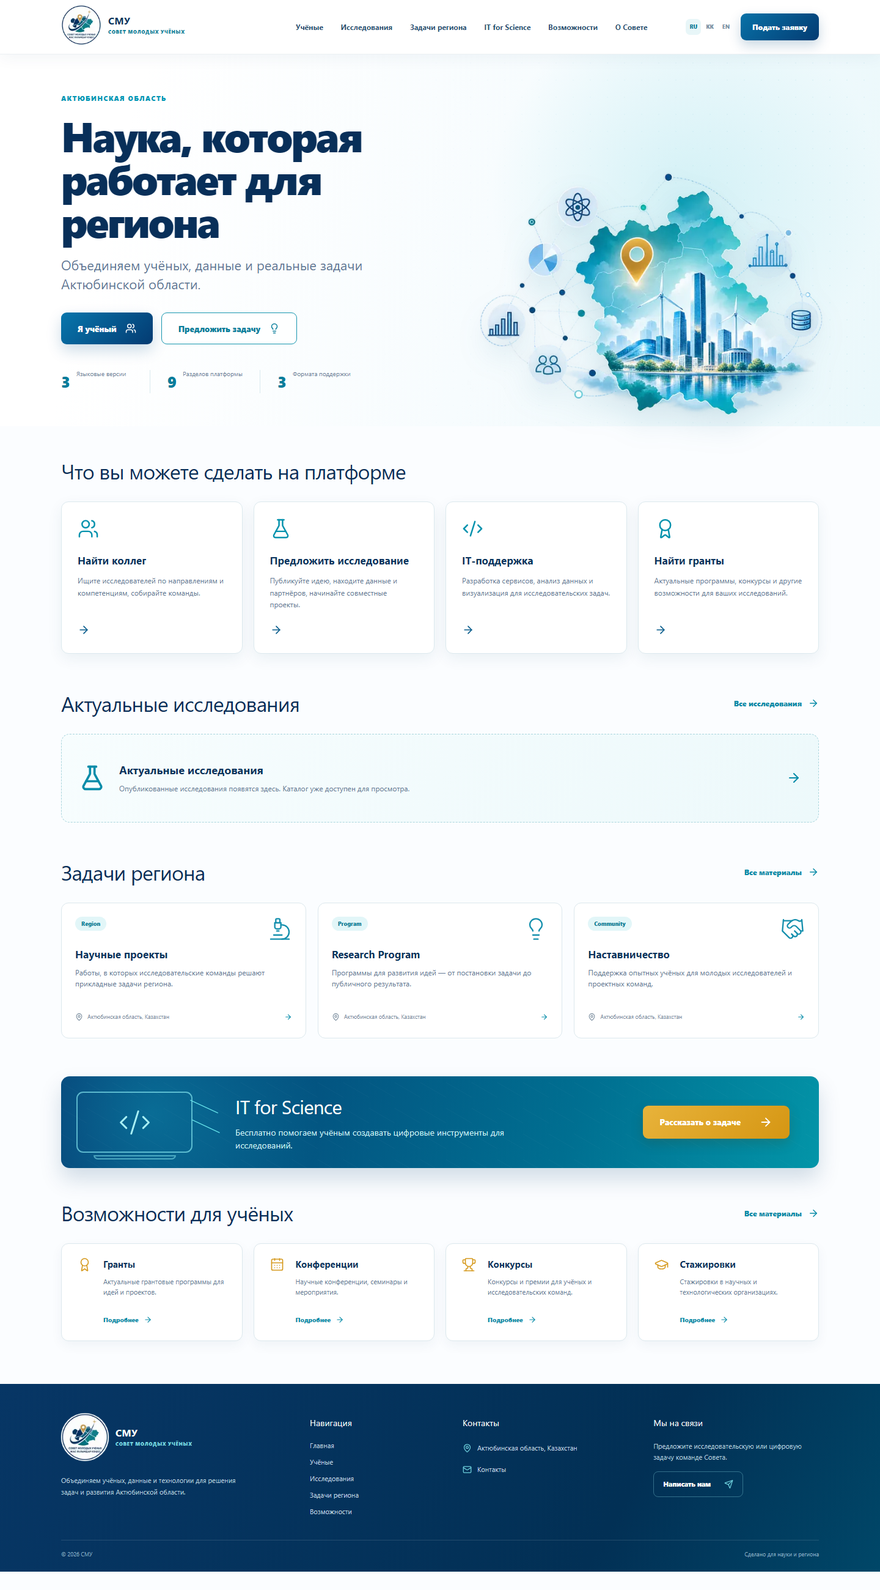
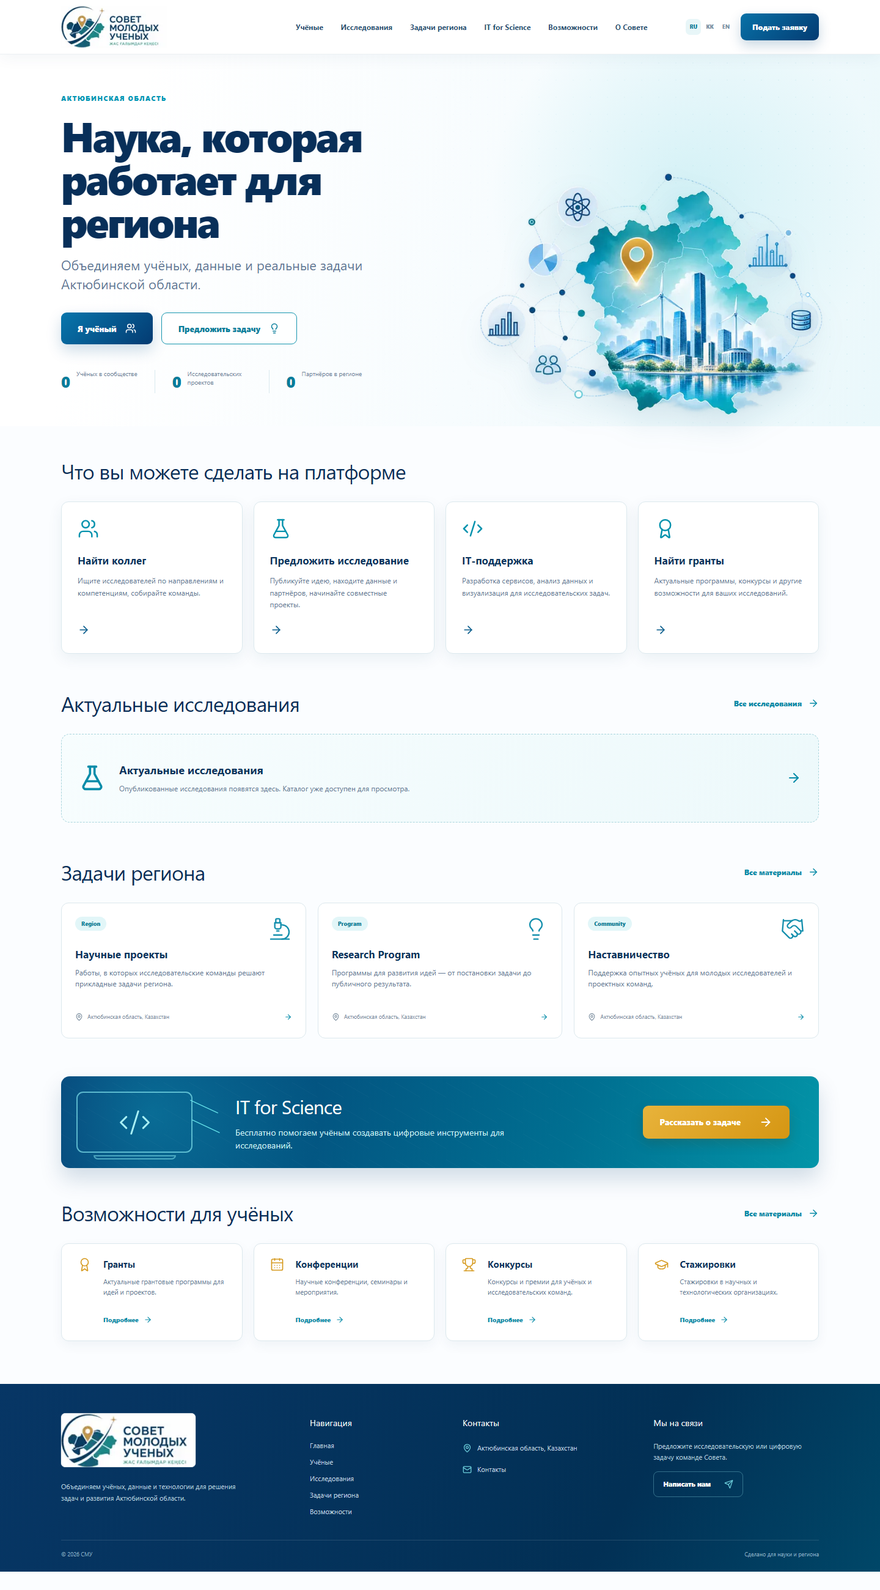
Главная страница 3

diff --git a/src/components/content/PublicHomepage.tsx b/src/components/content/PublicHomepage.tsx
@@ -19,7 +19,7 @@ import {
   Users,
 } from "lucide-react";
 import { homeCatalogs, homeCopy, type HomeCard, type Homepage } from "@/lib/homepage";
-import { locales, publicSections, type Locale } from "@/lib/i18n/locales";
+import { locales, type Locale } from "@/lib/i18n/locales";
 import { getDictionary } from "@/lib/i18n/dictionaries";
 import { supportCopy } from "@/lib/i18n/support-request";
 import styles from "./PublicHomepage.module.css";
@@ -34,7 +34,7 @@ const copy = {
     heroIntro: "Объединяем учёных, данные и реальные задачи Актюбинской области.",
     scientist: "Я учёный",
     propose: "Предложить задачу",
-    stats: ["Языковые версии", "Разделов платформы", "Формата поддержки"],
+    stats: ["Учёных в сообществе", "Исследовательских проектов", "Партнёров в регионе"],
     actionsTitle: "Что вы можете сделать на платформе",
     actions: [
       ["Найти коллег", "Ищите исследователей по направлениям и компетенциям, собирайте команды."],
@@ -81,7 +81,7 @@ const copy = {
     heroIntro: "Ақтөбе облысының ғалымдарын, деректерін және нақты міндеттерін біріктіреміз.",
     scientist: "Мен ғалыммын",
     propose: "Міндет ұсыну",
-    stats: ["Тілдік нұсқа", "Платформа бөлімі", "Қолдау форматы"],
+    stats: ["Қауымдастықтағы ғалымдар", "Зерттеу жобалары", "Өңірдегі серіктестер"],
     actionsTitle: "Платформада не істей аласыз",
     actions: [
       ["Әріптестерді табу", "Зерттеушілерді бағыттары мен құзыреттері бойынша тауып, команда құрыңыз."],
@@ -128,7 +128,7 @@ const copy = {
     heroIntro: "We connect scientists, data, and real challenges of the Aktobe Region.",
     scientist: "I am a scientist",
     propose: "Propose a challenge",
-    stats: ["Language versions", "Platform sections", "Support formats"],
+    stats: ["Scientists in the community", "Research projects", "Regional partners"],
     actionsTitle: "What you can do on the platform",
     actions: [
       ["Find colleagues", "Discover researchers by field and expertise and build a team."],
@@ -180,10 +180,18 @@ const opportunityTypes = ["grant", "conference", "competition", "internship"];
 const taskIcons = [Microscope, Lightbulb, Handshake];
 const taskHrefs = (locale: Locale) => [`/${locale}/projects`, `/${locale}/research-program`, `/${locale}/mentorship`];
 
-function Brand({ siteName, priority = false }: { siteName: string; priority?: boolean }) {
+function Brand({ locale, priority = false }: { locale: Locale; priority?: boolean }) {
+  const russian = locale === "ru";
   return <span className={styles.brand}>
-    <Image className={styles.brandLogo} src="/images/smu-logo.png" width={1260} height={1260} sizes="80px" alt="" priority={priority} />
-    <span className={styles.brandText}><strong>{siteName}</strong><small>Совет молодых учёных</small></span>
+    <Image
+      className={styles.brandLogo}
+      src={russian ? "/images/smu-logo-ru.png" : "/images/smu-logo-kk.png"}
+      width={1448}
+      height={1086}
+      sizes="(max-width: 820px) 190px, 225px"
+      alt={russian ? "Совет молодых учёных" : "Жас ғалымдар кеңесі"}
+      priority={priority}
+    />
   </span>;
 }
 
@@ -195,7 +203,7 @@ function HomeHeader({ locale, siteName }: { locale: Locale; siteName: string }) 
     [text.nav.opportunities, `/${locale}/opportunities`], [text.nav.about, `/${locale}/pages/about`],
   ] as const;
   return <header className={styles.header}><div className={styles.headerInner}>
-    <Link className={styles.brandLink} href={`/${locale}`} aria-label={siteName}><Brand siteName={siteName} priority /></Link>
+    <Link className={styles.brandLink} href={`/${locale}`} aria-label={siteName}><Brand locale={locale} priority /></Link>
     <nav className={styles.desktopNav} aria-label={text.navigation}>{links.map(([label, href]) => <Link href={href} key={href}>{label}</Link>)}</nav>
     <div className={styles.headerTools}>
       <span className={styles.languages}>{locales.map(language => <Link key={language} href={`/${language}`} aria-current={language === locale ? "page" : undefined}>{language.toUpperCase()}</Link>)}</span>
@@ -256,7 +264,7 @@ export function PublicHomepage({ data, locale }: { data: Homepage; locale: Local
       <section className={styles.hero} aria-labelledby="home-title"><div className={styles.heroInner}>
         <div className={styles.heroCopy}><p className={styles.eyebrow}>{getDictionary(locale).common.region}</p><h1 id="home-title">{hero?.title || text.heroTitle}</h1><p className={styles.heroIntro}>{text.heroIntro}</p>
           <div className={styles.heroActions}><Link className={styles.primaryButton} href={`/${locale}/scientists`}>{text.scientist}<Users aria-hidden="true" /></Link><Link className={styles.secondaryButton} href={`/${locale}/support/research_proposal`}>{text.propose}<Lightbulb aria-hidden="true" /></Link></div>
-          <dl className={styles.stats}><div><dt>3</dt><dd>{text.stats[0]}</dd></div><div><dt>{publicSections.length}</dt><dd>{text.stats[1]}</dd></div><div><dt>3</dt><dd>{text.stats[2]}</dd></div></dl>
+          <dl className={styles.stats}><div><dt>{data.stats.scientists}</dt><dd>{text.stats[0]}</dd></div><div><dt>{data.stats.researchProjects}</dt><dd>{text.stats[1]}</dd></div><div><dt>{data.stats.partners}</dt><dd>{text.stats[2]}</dd></div></dl>
         </div><HeroVisual />
       </div></section>
 
@@ -274,7 +282,7 @@ export function PublicHomepage({ data, locale }: { data: Homepage; locale: Local
 
       {additional.map(section => <GenericSection section={section} locale={locale} key={section.key} />)}
     </main>
-    <footer className={styles.footer}><div className={styles.footerGrid}><div><Brand siteName={data.settings.site_name} /><p>{text.footerText}</p><div className={styles.socials}>{data.settings.social_links.map((link, index) => <a href={link.href} rel="noreferrer" key={index}>{link.label}</a>)}</div></div>
+    <footer className={styles.footer}><div className={styles.footerGrid}><div><Brand locale={locale} /><p>{text.footerText}</p><div className={styles.socials}>{data.settings.social_links.map((link, index) => <a href={link.href} rel="noreferrer" key={index}>{link.label}</a>)}</div></div>
       <div><h2>{text.footerNav}</h2><Link href={`/${locale}`}>{fallback.home}</Link><Link href={`/${locale}/scientists`}>{text.nav.scientists}</Link><Link href={`/${locale}/research`}>{text.nav.research}</Link><Link href={`/${locale}/projects`}>{text.nav.projects}</Link><Link href={`/${locale}/opportunities`}>{text.nav.opportunities}</Link></div>
       <div><h2>{text.contacts}</h2><span><MapPin aria-hidden="true" />{text.region}</span>{data.settings.contact_email ? <a href={`mailto:${data.settings.contact_email}`}><Mail aria-hidden="true" />{data.settings.contact_email}</a> : <Link href={`/${locale}/pages/contacts`}><Mail aria-hidden="true" />{text.contacts}</Link>}</div>
       <div><h2>{text.connect}</h2><p>{text.connectText}</p><Link className={styles.footerCta} href={`/${locale}/support`}>{text.write}<Send aria-hidden="true" /></Link></div>

diff --git a/src/server/services/homepage.service.test.ts b/src/server/services/homepage.service.test.ts
@@ -1,13 +1,13 @@
 import { beforeEach, expect, it, vi } from "vitest";
 vi.mock("server-only", () => ({}));
 vi.mock("react", () => ({ cache: (fn: unknown) => fn }));
-const mocks = vi.hoisted(() => ({ content: vi.fn(), publicClient: vi.fn(), session: vi.fn(), configured: vi.fn(), search: vi.fn(), results: vi.fn(), events: vi.fn() }));
+const mocks = vi.hoisted(() => ({ content: vi.fn(), publicClient: vi.fn(), session: vi.fn(), configured: vi.fn(), search: vi.fn(), results: vi.fn(), events: vi.fn(), metrics: vi.fn() }));
 vi.mock("@/lib/supabase/public", () => ({ createPublicSupabaseClient: mocks.publicClient }));
 vi.mock("@/lib/supabase/server", () => ({ createServerSupabaseClient: mocks.session }));
 vi.mock("@/lib/env", () => ({ isSupabaseConfigured: mocks.configured }));
 vi.mock("@/server/services/site-content.service", () => ({ getPublicSiteContent: mocks.content }));
 vi.mock("@/server/repositories/search.repository", () => ({ SearchRepository: class { publicPage = mocks.search; } }));
-vi.mock("@/server/repositories/homepage.repository", () => ({ HomepageRepository: class { results = mocks.results; events = mocks.events; } }));
+vi.mock("@/server/repositories/homepage.repository", () => ({ HomepageRepository: class { results = mocks.results; events = mocks.events; metrics = mocks.metrics; } }));
 import { getPublicHomepage } from "./homepage.service";
 const settings = { site_name: "SMU", contact_email: "", social_links: [] };
 const slot = (key: string, limit = 2) => ({ key, sort_order: 1, display_limit: limit, title: "Custom" });
@@ -16,12 +16,14 @@ beforeEach(() => {
   vi.clearAllMocks(); mocks.configured.mockReturnValue(true); mocks.publicClient.mockReturnValue({});
   mocks.content.mockResolvedValue({ settings, sections: [], page: null });
   mocks.search.mockResolvedValue({ items: cards }); mocks.results.mockResolvedValue([cards[0]]); mocks.events.mockResolvedValue([]);
+  mocks.metrics.mockResolvedValue({ scientists: 42, researchProjects: 17, partners: 9 });
 });
 it("loads only enabled configured slots in their stored order, with localized filters and limits", async () => {
   mocks.content.mockResolvedValue({ settings, sections: [slot("opportunities", 1), slot("latest_articles", 3), slot("results", 2), slot("events")], page: null });
   const data = await getPublicHomepage("kk");
   expect(data.sections.map(s => s.key)).toEqual(["opportunities", "latest_articles", "results", "events"]);
   expect(data.sections.map(s => s.items.length)).toEqual([1, 3, 1, 0]);
+  expect(data.stats).toEqual({ scientists: 42, researchProjects: 17, partners: 9 });
   expect(mocks.search).toHaveBeenCalledWith("kk", "", "opportunities", { availability: "open" });
   expect(mocks.search).toHaveBeenCalledWith("kk", "", "journal", {});
   expect(mocks.results).toHaveBeenCalledWith("kk", 2); expect(mocks.events).toHaveBeenCalledWith("kk", 2);
@@ -38,7 +40,7 @@ it("makes no content list requests for disabled blocks or an unconfigured databa
   expect((await getPublicHomepage("ru")).sections).toEqual([]);
   expect(mocks.search).not.toHaveBeenCalled(); expect(mocks.results).not.toHaveBeenCalled();
   mocks.configured.mockReturnValue(false); mocks.publicClient.mockClear();
-  expect(await getPublicHomepage("en")).toEqual({ settings, sections: [] }); expect(mocks.publicClient).not.toHaveBeenCalled();
+  expect(await getPublicHomepage("en")).toEqual({ settings, sections: [], stats: { scientists: 0, researchProjects: 0, partners: 0 } }); expect(mocks.publicClient).not.toHaveBeenCalled();
 });
 it("propagates configured DB failures instead of presenting an empty published catalogue", async () => {
   mocks.content.mockResolvedValue({ settings, sections: [slot("featured_research")], page: null });

diff --git a/src/components/content/HomePages.test.tsx b/src/components/content/HomePages.test.tsx
@@ -12,22 +12,25 @@ import { homeCopy } from "@/lib/homepage";
 import { sectionKeys } from "@/lib/validation/site-content";
 const settings = { site_name: "SMU <script>name</script>", contact_email: "contact@example.org", social_links: [{ label: "Community", href: "https://example.org" }] };
 beforeEach(() => {
-  vi.clearAllMocks(); mocks.home.mockResolvedValue({ settings, sections: [] }); mocks.content.mockResolvedValue({ settings });
+  vi.clearAllMocks(); mocks.home.mockResolvedValue({ settings, sections: [], stats: { scientists: 42, researchProjects: 17, partners: 9 } }); mocks.content.mockResolvedValue({ settings });
   mocks.access.mockResolvedValue({ state: "allowed", access: { userId: "actor", roles: new Set(), permissions: new Set(["admin.access", "articles.edit_own"]) } });
   mocks.dashboard.mockResolvedValue({ metrics: { own_drafts: 0 }, ownDrafts: [], reviewQueue: [], recentActions: [] });
 });
 it.each(["ru", "kk", "en"] as const)("renders a %s home with localized navigation and empty states, without redirecting", async locale => {
-  mocks.home.mockResolvedValue({ settings, sections: sectionKeys.map((key, i) => ({ key, title: i === 0 ? "Custom <script>title</script>" : "", display_limit: 1, sort_order: i, items: [] })) });
+  mocks.home.mockResolvedValue({ settings, stats: { scientists: 42, researchProjects: 17, partners: 9 }, sections: sectionKeys.map((key, i) => ({ key, title: i === 0 ? "Custom <script>title</script>" : "", display_limit: 1, sort_order: i, items: [] })) });
   const html = renderToStaticMarkup(await Home({ params: Promise.resolve({ locale }) }));
   expect(mocks.home).toHaveBeenCalledWith(locale);
   expect(html).toContain(homeCopy[locale].empty); expect(html).toContain(homeCopy[locale].sections.results);
   expect(html).toContain(`href="/${locale}/support/research_proposal"`); expect(html).toContain(`href="/${locale}/support/it_request"`);
   expect(html).toContain('href="/kk"'); expect(html).toContain('href="/en"');
   expect(html).toContain('>EN</a>');
+  expect(html).toContain(locale === "ru" ? "smu-logo-ru.png" : "smu-logo-kk.png");
+  expect(html).not.toContain(locale === "ru" ? "smu-logo-kk.png" : "smu-logo-ru.png");
+  expect(html).toContain("<dt>42</dt>"); expect(html).toContain("<dt>17</dt>"); expect(html).toContain("<dt>9</dt>");
   expect(html).toContain("Custom &lt;script&gt;title&lt;/script&gt;"); expect(html).not.toContain("<script>");
 });
 it("renders published cards safely and omits disabled sections", async () => {
-  mocks.home.mockResolvedValue({ settings, sections: [{ key: "latest_articles", title: "", display_limit: 2, sort_order: 1,
+  mocks.home.mockResolvedValue({ settings, stats: { scientists: 42, researchProjects: 17, partners: 9 }, sections: [{ key: "latest_articles", title: "", display_limit: 2, sort_order: 1,
     items: [{ id: "article", title: "<img onerror=alert(1)>", summary: "<iframe>body</iframe>", href: "/ru/journal/article" }] }] });
   const html = renderToStaticMarkup(await Home({ params: Promise.resolve({ locale: "ru" }) }));
   expect(html).toContain('href="/ru/journal/article"'); expect(html).toContain("&lt;img onerror=alert(1)&gt;");

diff --git a/src/components/content/PublicHomepage.module.css b/src/components/content/PublicHomepage.module.css
@@ -34,11 +34,8 @@
 }
 
 .brandLink { width: fit-content; color: inherit; }
-.brand { display: inline-flex; align-items: center; gap: 11px; }
-.brandLogo { width: 66px; height: 66px; flex: 0 0 auto; border-radius: 50%; background: #fff; object-fit: contain; }
-.brandText { display: grid; max-width: 165px; line-height: 1.05; text-transform: uppercase; }
-.brandText strong { font-size: 16px; letter-spacing: .02em; }
-.brandText small { margin-top: 5px; color: #15859c; font-size: 8px; font-weight: 850; letter-spacing: .08em; }
+.brand { display: block; position: relative; width: 174px; height: 70px; overflow: hidden; flex: 0 0 auto; background: #fff; }
+.brandLogo { position: absolute; top: -46px; left: -30px; width: 225px; height: auto; max-width: none; }
 
 .desktopNav { display: flex; align-items: center; justify-content: center; gap: clamp(14px, 2vw, 29px); }
 .desktopNav a { position: relative; color: #264e70; font-size: 12px; font-weight: 700; white-space: nowrap; }
@@ -161,9 +158,8 @@
 
 .footer { margin-top: 62px; background: linear-gradient(120deg, #073665, #023055 70%, #004768); color: #fff; }
 .footerGrid { display: grid; grid-template-columns: 1.3fr .72fr .95fr 1fr; width: min(100% - 48px, 1240px); margin: 0 auto; gap: 55px; padding: 48px 0 38px; }
-.footer .brandLogo { width: 78px; height: 78px; box-shadow: 0 0 0 1px rgb(255 255 255 / 16%); }
-.footer .brandText { color: #fff; }
-.footer .brandText small { color: #77d4df; }
+.footer .brand { width: 220px; height: 88px; border-radius: 7px; box-shadow: 0 0 0 1px rgb(255 255 255 / 16%); }
+.footer .brandLogo { top: -60px; left: -39px; width: 290px; }
 .footerGrid > div { display: flex; flex-direction: column; align-items: flex-start; gap: 11px; }
 .footerGrid > div:first-child > p { max-width: 290px; margin: 12px 0 0; color: #b9d0df; font-size: 11px; line-height: 1.7; }
 .footerGrid h2 { margin: 5px 0 8px; color: #fff; font-size: 14px; }
@@ -196,8 +192,8 @@
 @media (max-width: 820px) {
   .headerInner, .heroInner, .section, .secondarySection, .itBanner, .footerGrid, .footerBottom { width: min(100% - 32px, 720px); }
   .headerInner { min-height: 76px; }
-  .brandLogo { width: 56px; height: 56px; }
-  .brandText strong { font-size: 14px; }
+  .header .brand { width: 145px; height: 58px; }
+  .header .brandLogo { top: -39px; left: -26px; width: 190px; }
   .languages { display: none; }
   .heroInner { grid-template-columns: 1fr; min-height: auto; }
   .heroCopy { padding-bottom: 10px; }
@@ -213,8 +209,6 @@
 
 @media (max-width: 560px) {
   .headerCta { display: none; }
-  .brandText small { display: none; }
-  .brandText { max-width: 135px; }
   .heroCopy { padding-top: 48px; }
   .hero h1 { font-size: clamp(36px, 10.5vw, 42px); }
   .heroIntro { font-size: 17px; }

diff --git a/src/server/services/homepage.service.ts b/src/server/services/homepage.service.ts
@@ -10,24 +10,25 @@ import { isSupabaseConfigured } from "@/lib/env";
 
 export const getPublicHomepage = cache(async (locale: Locale): Promise<Homepage> => {
   const content = await getPublicSiteContent(locale);
-  if (!isSupabaseConfigured()) return { settings: content.settings, sections: [] };
+  if (!isSupabaseConfigured()) return { settings: content.settings, sections: [], stats: { scientists: 0, researchProjects: 0, partners: 0 } };
   const client = createPublicSupabaseClient();
-  const sections = await Promise.all(content.sections.map(async section => {
+  const homepageRepository = new HomepageRepository(client);
+  const [stats, sections] = await Promise.all([homepageRepository.metrics(), Promise.all(content.sections.map(async section => {
     const catalog = homeCatalogs[section.key];
     let items: HomeCard[] = [];
     if (section.key === "events") {
-      items = await new HomepageRepository(client).events(locale, section.display_limit);
+      items = await homepageRepository.events(locale, section.display_limit);
     } else if (catalog) {
       const filters: Record<string, string> = section.key === "opportunities" ? { availability: "open" } : {};
       const page = await new SearchRepository(client).publicPage(locale, "", catalog, filters);
       items = page.items.flatMap(item => item.href ? [{ id: item.id, title: item.title, summary: item.summary, href: item.href }] : []).slice(0, section.display_limit);
     } else if (section.key === "results") {
-      items = await new HomepageRepository(client).results(locale, section.display_limit);
+      items = await homepageRepository.results(locale, section.display_limit);
     } else if (section.key === "partners") {
       const { page } = await getPublicSiteContent(locale, "partners");
       if (page) items = [{ id: "partners", title: page.title, summary: page.summary, href: `/${locale}/pages/partners` }];
     }
     return { ...section, items };
-  }));
-  return { settings: content.settings, sections };
+  }))]);
+  return { settings: content.settings, sections, stats };
 });

diff --git a/src/server/repositories/homepage.repository.test.ts b/src/server/repositories/homepage.repository.test.ts
@@ -1,0 +1,36 @@
+import { expect, it, vi } from "vitest";
+
+vi.mock("server-only", () => ({}));
+
+import { HomepageRepository } from "./homepage.repository";
+
+it("counts only public scientists, published projects, and active partner organizations", async () => {
+  const counts = new Map([
+    ["scientist_profiles", 42],
+    ["science_works", 17],
+    ["scientific_organizations", 9],
+  ]);
+  const queries: { table: string; options?: object; filters: [string, string, unknown][] }[] = [];
+  const client = {
+    from(table: string) {
+      const queryState = { table, options: undefined as object | undefined, filters: [] as [string, string, unknown][] };
+      queries.push(queryState);
+      const query = {
+        select(_columns: string, options: object) { queryState.options = options; return query; },
+        eq(column: string, value: unknown) { queryState.filters.push(["eq", column, value]); return query; },
+        is(column: string, value: unknown) { queryState.filters.push(["is", column, value]); return query; },
+        then(resolve: (value: { count: number; error: null }) => unknown, reject: (reason: unknown) => unknown) {
+          return Promise.resolve({ count: counts.get(table) ?? 0, error: null }).then(resolve, reject);
+        },
+      };
+      return query;
+    },
+  };
+
+  await expect(new HomepageRepository(client as never).metrics()).resolves.toEqual({ scientists: 42, researchProjects: 17, partners: 9 });
+  expect(queries.map(query => [query.table, query.options, query.filters])).toEqual([
+    ["scientist_profiles", { count: "exact", head: true }, [["eq", "status", "verified"], ["eq", "is_public", true], ["is", "deleted_at", null]]],
+    ["science_works", { count: "exact", head: true }, [["eq", "kind", "project"], ["eq", "status", "published"], ["is", "deleted_at", null]]],
+    ["scientific_organizations", { count: "exact", head: true }, [["eq", "is_active", true]]],
+  ]);
+});

diff --git a/src/server/repositories/homepage.repository.ts b/src/server/repositories/homepage.repository.ts
@@ -2,9 +2,25 @@ import "server-only";
 import { z } from "zod";
 import type { DatabaseClient } from "@/lib/supabase/database";
 import type { Locale } from "@/lib/i18n/locales";
-import { homeCardSchema } from "@/lib/homepage";
+import { homeCardSchema, type HomepageStats } from "@/lib/homepage";
 export class HomepageRepository {
   constructor(private readonly client: DatabaseClient) {}
+  async metrics(): Promise<HomepageStats> {
+    const [scientists, researchProjects, partners] = await Promise.all([
+      this.client.from("scientist_profiles").select("id", { count: "exact", head: true })
+        .eq("status", "verified").eq("is_public", true).is("deleted_at", null),
+      this.client.from("science_works").select("id", { count: "exact", head: true })
+        .eq("kind", "project").eq("status", "published").is("deleted_at", null),
+      this.client.from("scientific_organizations").select("id", { count: "exact", head: true })
+        .eq("is_active", true),
+    ]);
+    for (const result of [scientists, researchProjects, partners]) if (result.error) throw result.error;
+    return {
+      scientists: scientists.count ?? 0,
+      researchProjects: researchProjects.count ?? 0,
+      partners: partners.count ?? 0,
+    };
+  }
   async events(locale: Locale, limit: number) {
     const { data, error } = await this.client.rpc("list_homepage_events", { p_locale: locale, p_limit: limit });
     if (error) throw error;

diff --git a/src/lib/homepage.ts b/src/lib/homepage.ts
@@ -5,7 +5,8 @@ export const homeCardSchema = z.object({ id: z.uuid(), title: z.string(), summar
   href: z.string().startsWith("/").refine(value => !value.startsWith("//")) });
 export type HomeCard = z.infer<typeof homeCardSchema>;
 export type HomeSection = PublicSiteContent["sections"][number] & { items: HomeCard[] };
-export type Homepage = { settings: PublicSiteContent["settings"]; sections: HomeSection[] };
+export type HomepageStats = { scientists: number; researchProjects: number; partners: number };
+export type Homepage = { settings: PublicSiteContent["settings"]; sections: HomeSection[]; stats: HomepageStats };
 type SectionKey = typeof sectionKeys[number];
 export const homeCopy = {
   ru: { home: "Главная", intro: "Наука начинается с людей и совместных идей. Исследования, наставничество и поддержка научного сообщества.", all: "Все материалы", empty: "Опубликованных материалов пока нет.",
